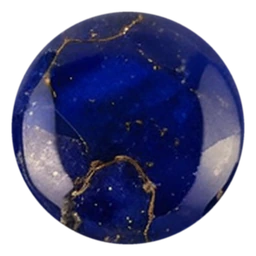
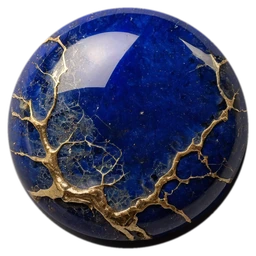
Granite: individually generated stones, carved rotating capture rings and carved overlays
- one ComfyUI image per stone (same prompt, different seeds), circular mask at full resolution, 6 variants per stone, balanced
- High/Ultra overlays are engraved (dark upper-left wall, lit lower-right wall); capture rings carry slowly rotating ember segments (reduced-motion/Low safe)
- stones command + find_single in assetgen; screenshots, stones sheet and indicators crop updated

diff --git a/src/ui/boardView.ts b/src/ui/boardView.ts
@@ -301,9 +301,66 @@ export class BoardView {
     }
   }
 
+  /**
+   * Carved overlays (baked-light boards at High/Ultra): rings are "engraved" into the stone with a dark wall on the
+   * upper-left and a lit wall on the lower-right (the same direction as the board render's light).
+   */
+  private carvedRing(x: number, y: number, r: number, width: number, ink: string): SVGElement[] {
+    const mk = (dx: number, dy: number, w: number, stroke: string, op: number) =>
+      svgEl('circle', { cx: x + dx, cy: y + dy, r, fill: 'none', stroke, 'stroke-width': w, opacity: op });
+    return [
+      mk(0.9, 0.9, width * 0.6, '#f0d4a8', 0.5), // lit lower-right wall
+      mk(-0.8, -0.8, width * 1.15, '#000000', 0.7), // shadowed upper-left wall
+      mk(0, 0, width, ink, 1),
+    ];
+  }
+
+  private setCarvedOverlay(o: Overlay): void {
+    const L = this.hlLayer;
+    if (o.selected !== null) {
+      const { x, y } = pointXY(o.selected);
+      L.append(...this.carvedRing(x, y, PIECE_R + 9, 3, '#e9b866'), svgEl('circle', { cx: x, cy: y, r: PIECE_R + 9, fill: 'none', stroke: '#ffd79a', 'stroke-width': 1.2, opacity: 0.9, class: 'hl-selected' }));
+    }
+    for (const t of o.targets) {
+      const { x, y } = pointXY(t);
+      L.append(
+        svgEl('circle', { cx: x, cy: y, r: 9, fill: '#ff9a4a', opacity: 0.45, class: 'hl-target' }),
+        ...this.carvedRing(x, y, 15, 2.2, '#8a4a22'),
+      );
+    }
+    for (const c of o.capturable) {
+      const { x, y } = pointXY(c);
+      const r = PIECE_R + 10;
+      const circ = 2 * Math.PI * r;
+      const n = 10;
+      const dash = circ / n;
+      L.append(
+        ...this.carvedRing(x, y, r, 3.2, '#2a0f08'),
+        // ember segments running inside the groove; only this group rotates, so the carving's lighting stays fixed
+        svgEl('circle', { cx: x, cy: y, r, fill: 'none', stroke: '#ff5a2a', 'stroke-width': 7, opacity: 0.16, 'stroke-dasharray': `${dash * 0.55} ${dash * 0.45}`, class: 'hl-ember' }),
+        svgEl('circle', {
+          cx: x, cy: y, r, fill: 'none', stroke: '#ff7a3c', 'stroke-width': 2.4, 'stroke-linecap': 'round',
+          'stroke-dasharray': `${dash * 0.5} ${dash * 0.5}`, class: 'hl-ember hl-capture-carved',
+        }),
+      );
+    }
+    this.markClickable(o);
+  }
+
+  private markClickable(o: Overlay): void {
+    const clickable = new Set<number>([...o.targets, ...o.capturable]);
+    for (const el of this.el.querySelectorAll<SVGElement>('.hit')) {
+      el.classList.toggle('active', clickable.has(Number(el.getAttribute('data-point'))));
+    }
+  }
+
   setOverlay(o: Overlay): void {
     this.lastOverlay = o;
     clear(this.hlLayer);
+    if (this.render.assets.boardIncludesLines && this.render.assets.board && this.render.level !== 'low') {
+      this.setCarvedOverlay(o);
+      return;
+    }
     const hl = this.theme.highlight;
     if (o.selected !== null) {
       const { x, y } = pointXY(o.selected);

diff --git a/src/style.css b/src/style.css
@@ -104,6 +104,7 @@ button:disabled { cursor: not-allowed; }
 .hl-target-ring { opacity: .45; pointer-events: none; }
 .hl-selected, .hl-capture { pointer-events: none; }
 .hl-capture { animation: dash 1s linear infinite, pulse 1s ease-in-out infinite; transform-box: fill-box; transform-origin: center; }
+.hl-ember { transform-box: fill-box; transform-origin: center; animation: spin 12s linear infinite; will-change: transform; pointer-events: none; }
 .mill-glow { animation: mill 1.5s ease-out forwards; pointer-events: none; }
 @keyframes pop { 0% { transform: scale(.2) translateY(-18px); opacity: 0; } 60% { transform: scale(1.18); opacity: 1; } 100% { transform: scale(1); } }
 @keyframes vanish { 0% { transform: scale(1); opacity: 1; } 30% { transform: scale(1.25); opacity: 1; } 100% { transform: scale(0); opacity: 0; } }
@@ -178,7 +179,7 @@ html.modal-open, html.modal-open body { overflow: hidden; overscroll-behavior: n
 }
 @media (prefers-reduced-motion: reduce) {
   .piece.sliding { transition-duration: .01s; }
-  .hl-target, .hl-capture, .piece.movable .piece-body { animation: none; }
+  .hl-target, .hl-capture, .hl-ember, .piece.movable .piece-body { animation: none; }
 }
 
 /* ---- online ---- */

diff --git a/tools/assetgen/assetgen.py b/tools/assetgen/assetgen.py
@@ -226,6 +226,33 @@ def cmd_cabochons(args) -> None:
     say(f"{len(files)} {prefix} variants in {out_dir.relative_to(ROOT)} (see {prefix}_contact.png); delete unwanted PNGs by hand, keep 4-6")
 
 
+def cmd_stones(args) -> None:
+    """Cut the single stone out of each per-stone candidate with a fitted circular mask -> pieces/<prefix>_NN.png"""
+    spec = load_spec(args.spec or args.theme)
+    prefix = spec["assets"][args.asset]["piece"]
+    out_dir = SRC / args.theme / "pieces"
+    out_dir.mkdir(parents=True, exist_ok=True)
+    for f in out_dir.glob(f"{prefix}_*.png"):
+        f.unlink()
+    n = 0
+    for f in sorted((SRC / args.theme / args.asset).glob("cand_*.png")):
+        if "mask" in f.name:
+            continue
+        img = Image.open(f).convert("RGB")
+        found = cabochons.find_single(img)
+        if not found:
+            say(f"{f.name}: no stone found")
+            continue
+        cx, cy, r, aspect = found
+        note = "" if 0.93 < aspect < 1.07 else "  (not round?)"
+        say(f"{f.name}: centre ({cx:.0f},{cy:.0f}) r={r:.0f} aspect={aspect:.2f}{note}")
+        cabochons.cut_circle(img, cx, cy, r, 512, margin=0.05, shrink=0.985).save(out_dir / f"{prefix}_{int(f.stem.split('_')[1]):02d}.png")
+        n += 1
+    files = sorted(out_dir.glob(f"{prefix}_*.png"))
+    imgtools.contact_sheet([Image.open(x) for x in files], [x.stem for x in files], thumb=200, cols=5).save(out_dir / f"{prefix}_contact.png")
+    say(f"{n} stones cut; see pieces/{prefix}_contact.png; copy the best 6 to pieces/final/{prefix}_0..5.png")
+
+
 # ---- tile preview ---------------------------------------------------------------------------
 
 def cmd_tile_preview(args) -> None:
@@ -467,6 +494,10 @@ def main() -> None:
     cb.add_argument("theme"); cb.add_argument("asset"); cb.add_argument("--cands", required=True, help="comma-separated candidate numbers")
     cb.add_argument("--spec"); cb.add_argument("--min-blue", type=float, default=0.0); cb.add_argument("--clear", action="store_true")
     cb.set_defaults(fn=cmd_cabochons)
+
+    st = sub.add_parser("stones", help="cut single-stone candidates with a circular mask")
+    st.add_argument("theme"); st.add_argument("asset"); st.add_argument("--spec")
+    st.set_defaults(fn=cmd_stones)
 
     t = sub.add_parser("tile-preview", help="2x2 tiling of a texture to check seams")
     t.add_argument("theme"); t.add_argument("asset"); t.add_argument("--cand")

diff --git a/tools/assetgen/cabochons.py b/tools/assetgen/cabochons.py
@@ -95,3 +95,18 @@ def extract(sheet_path: Path, out_dir: Path, prefix: str, size: int = 512, **kw)
         cut_circle(img, cx, cy, r, size).save(p)
         paths.append(p)
     return paths
+
+
+def find_single(img: Image.Image, work: int = 512, sat_thresh: int = 60):
+    """(cx, cy, r) in full-res px of the single stone in the frame (largest saturated blob), or None."""
+    scale = work / max(img.size)
+    small = img.convert("RGB").resize((round(img.width * scale), round(img.height * scale)), Image.LANCZOS)
+    mask = _saturation(small).point(lambda v: 255 if v > sat_thresh else 0)
+    mask = mask.filter(ImageFilter.MaxFilter(5)).filter(ImageFilter.MinFilter(5)).filter(ImageFilter.MinFilter(3))
+    bbox = mask.getbbox()
+    if not bbox:
+        return None
+    x0, y0, x1, y1 = bbox
+    w, h = x1 - x0, y1 - y0
+    area = sum(1 for v in mask.getdata() if v) if False else None  # noqa
+    return ((x0 + x1) / 2 / scale, (y0 + y1) / 2 / scale, (w + h) / 4 / scale, w / max(1, h))
